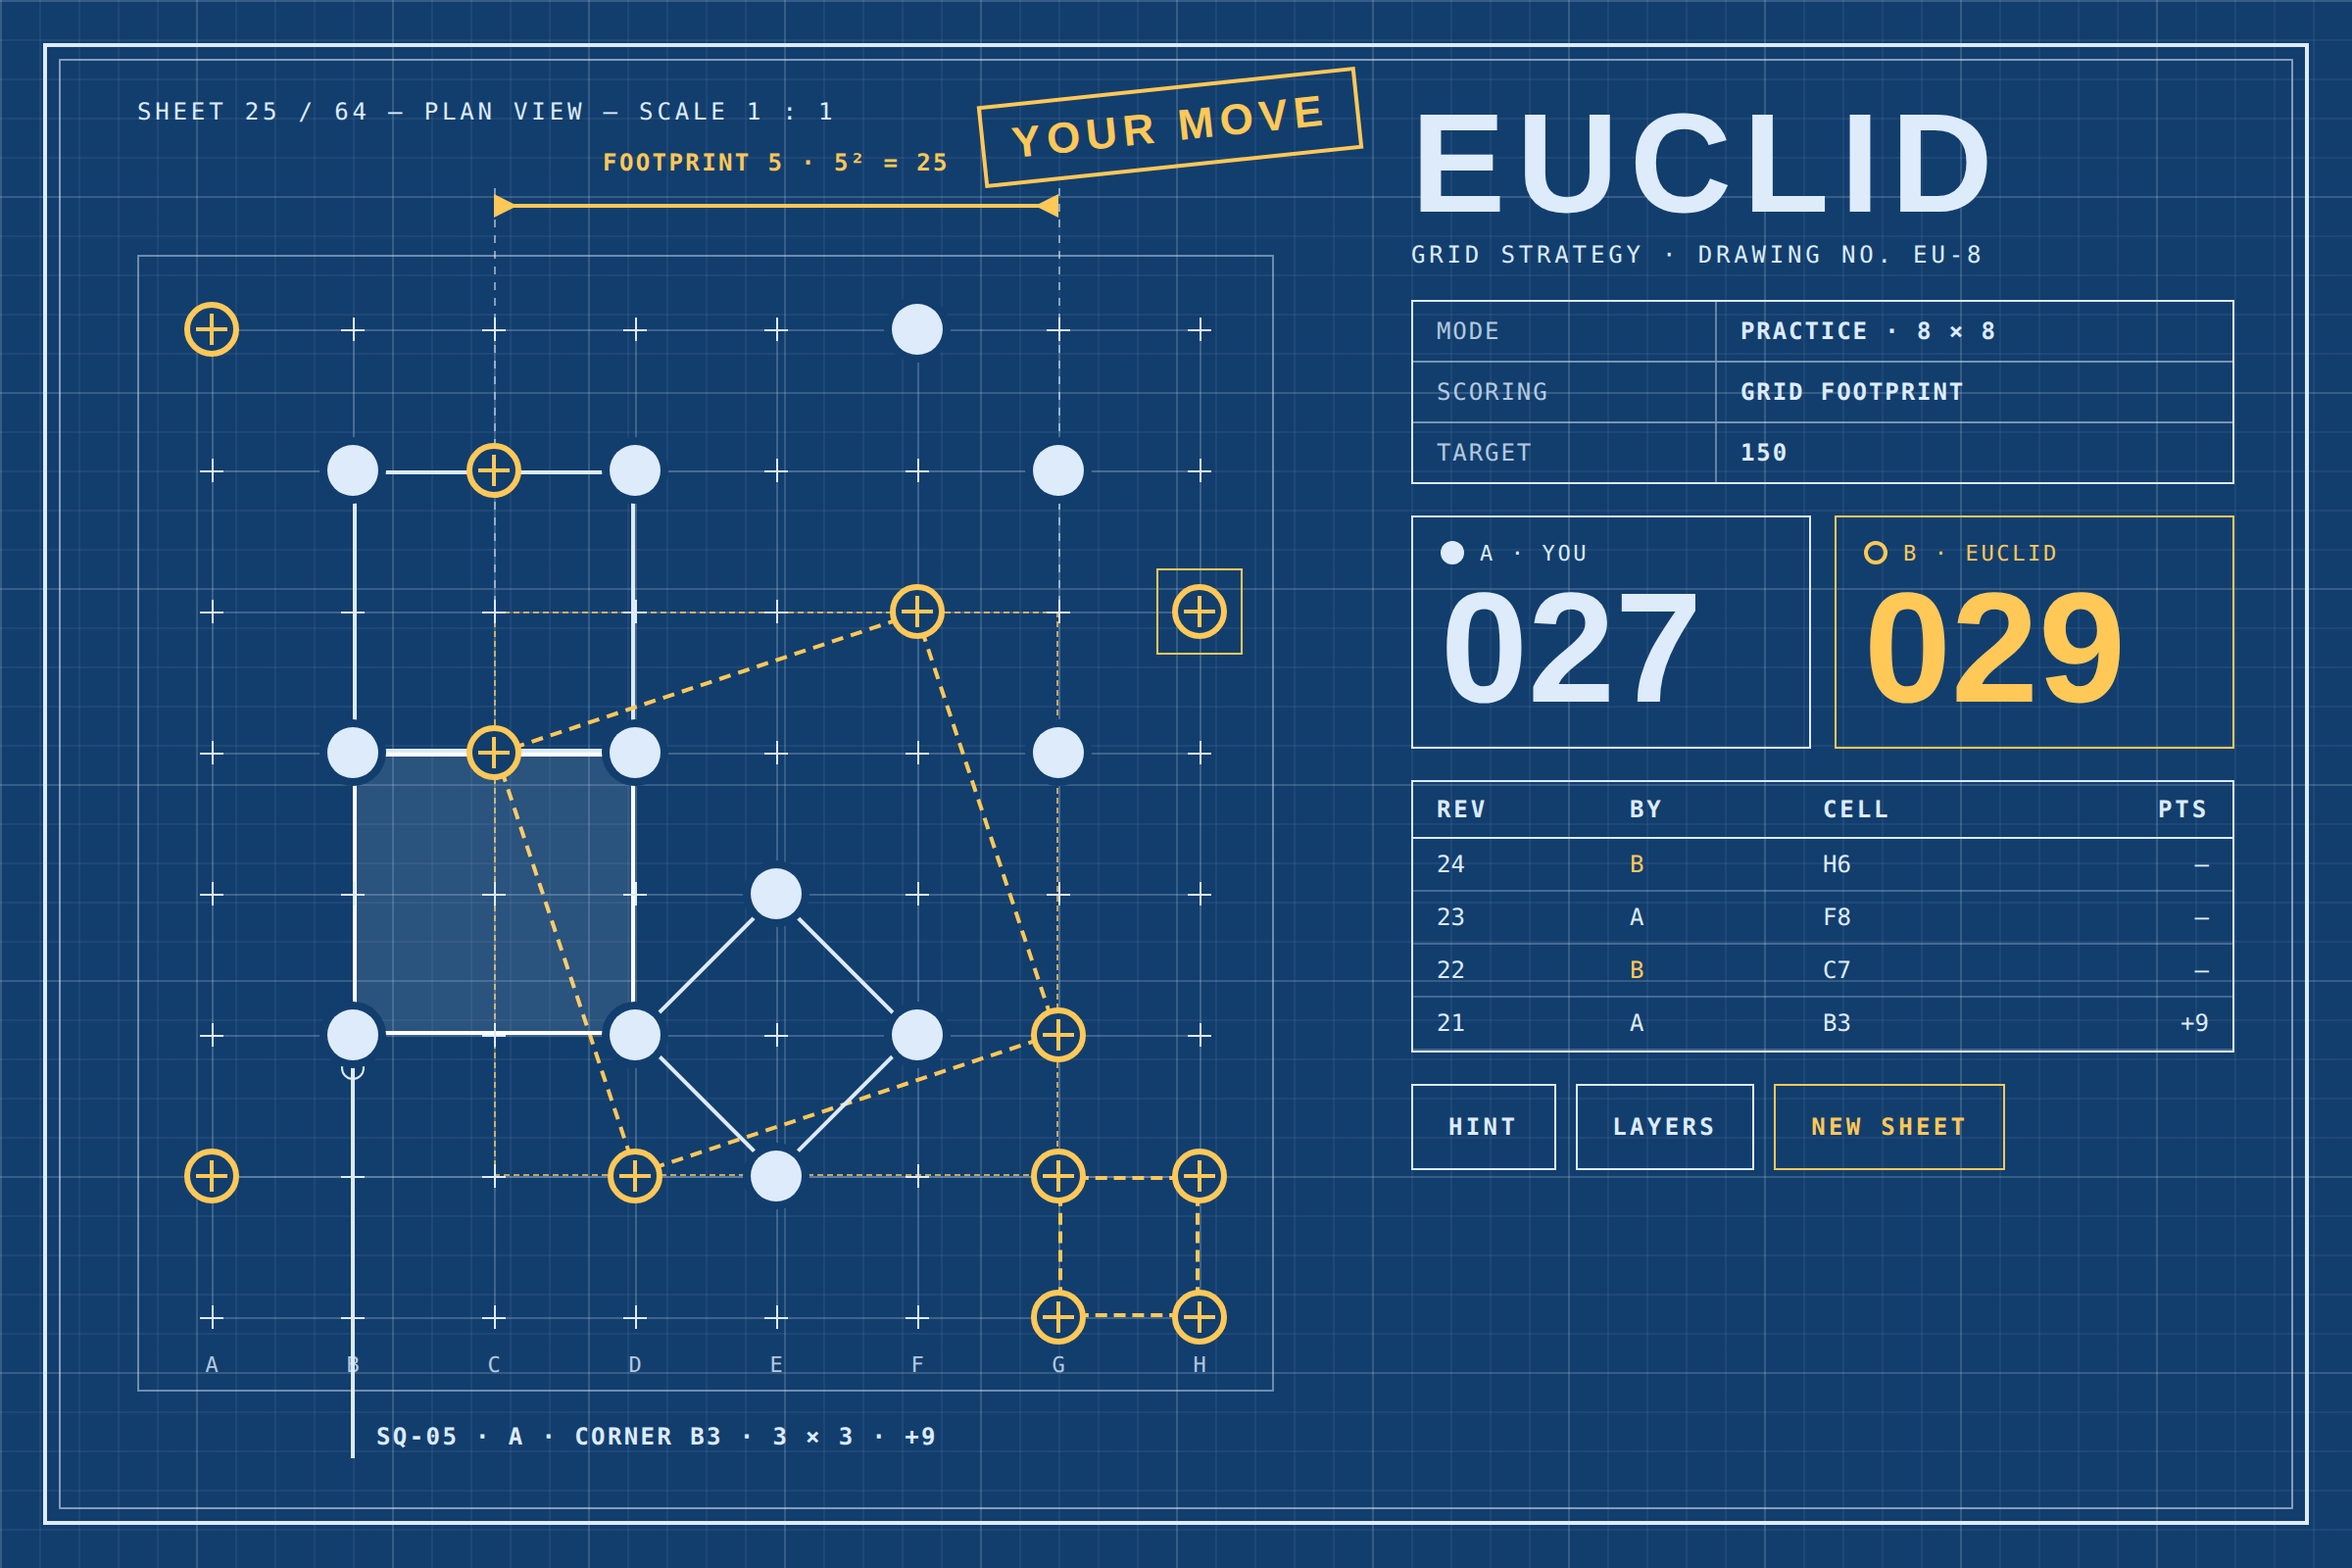
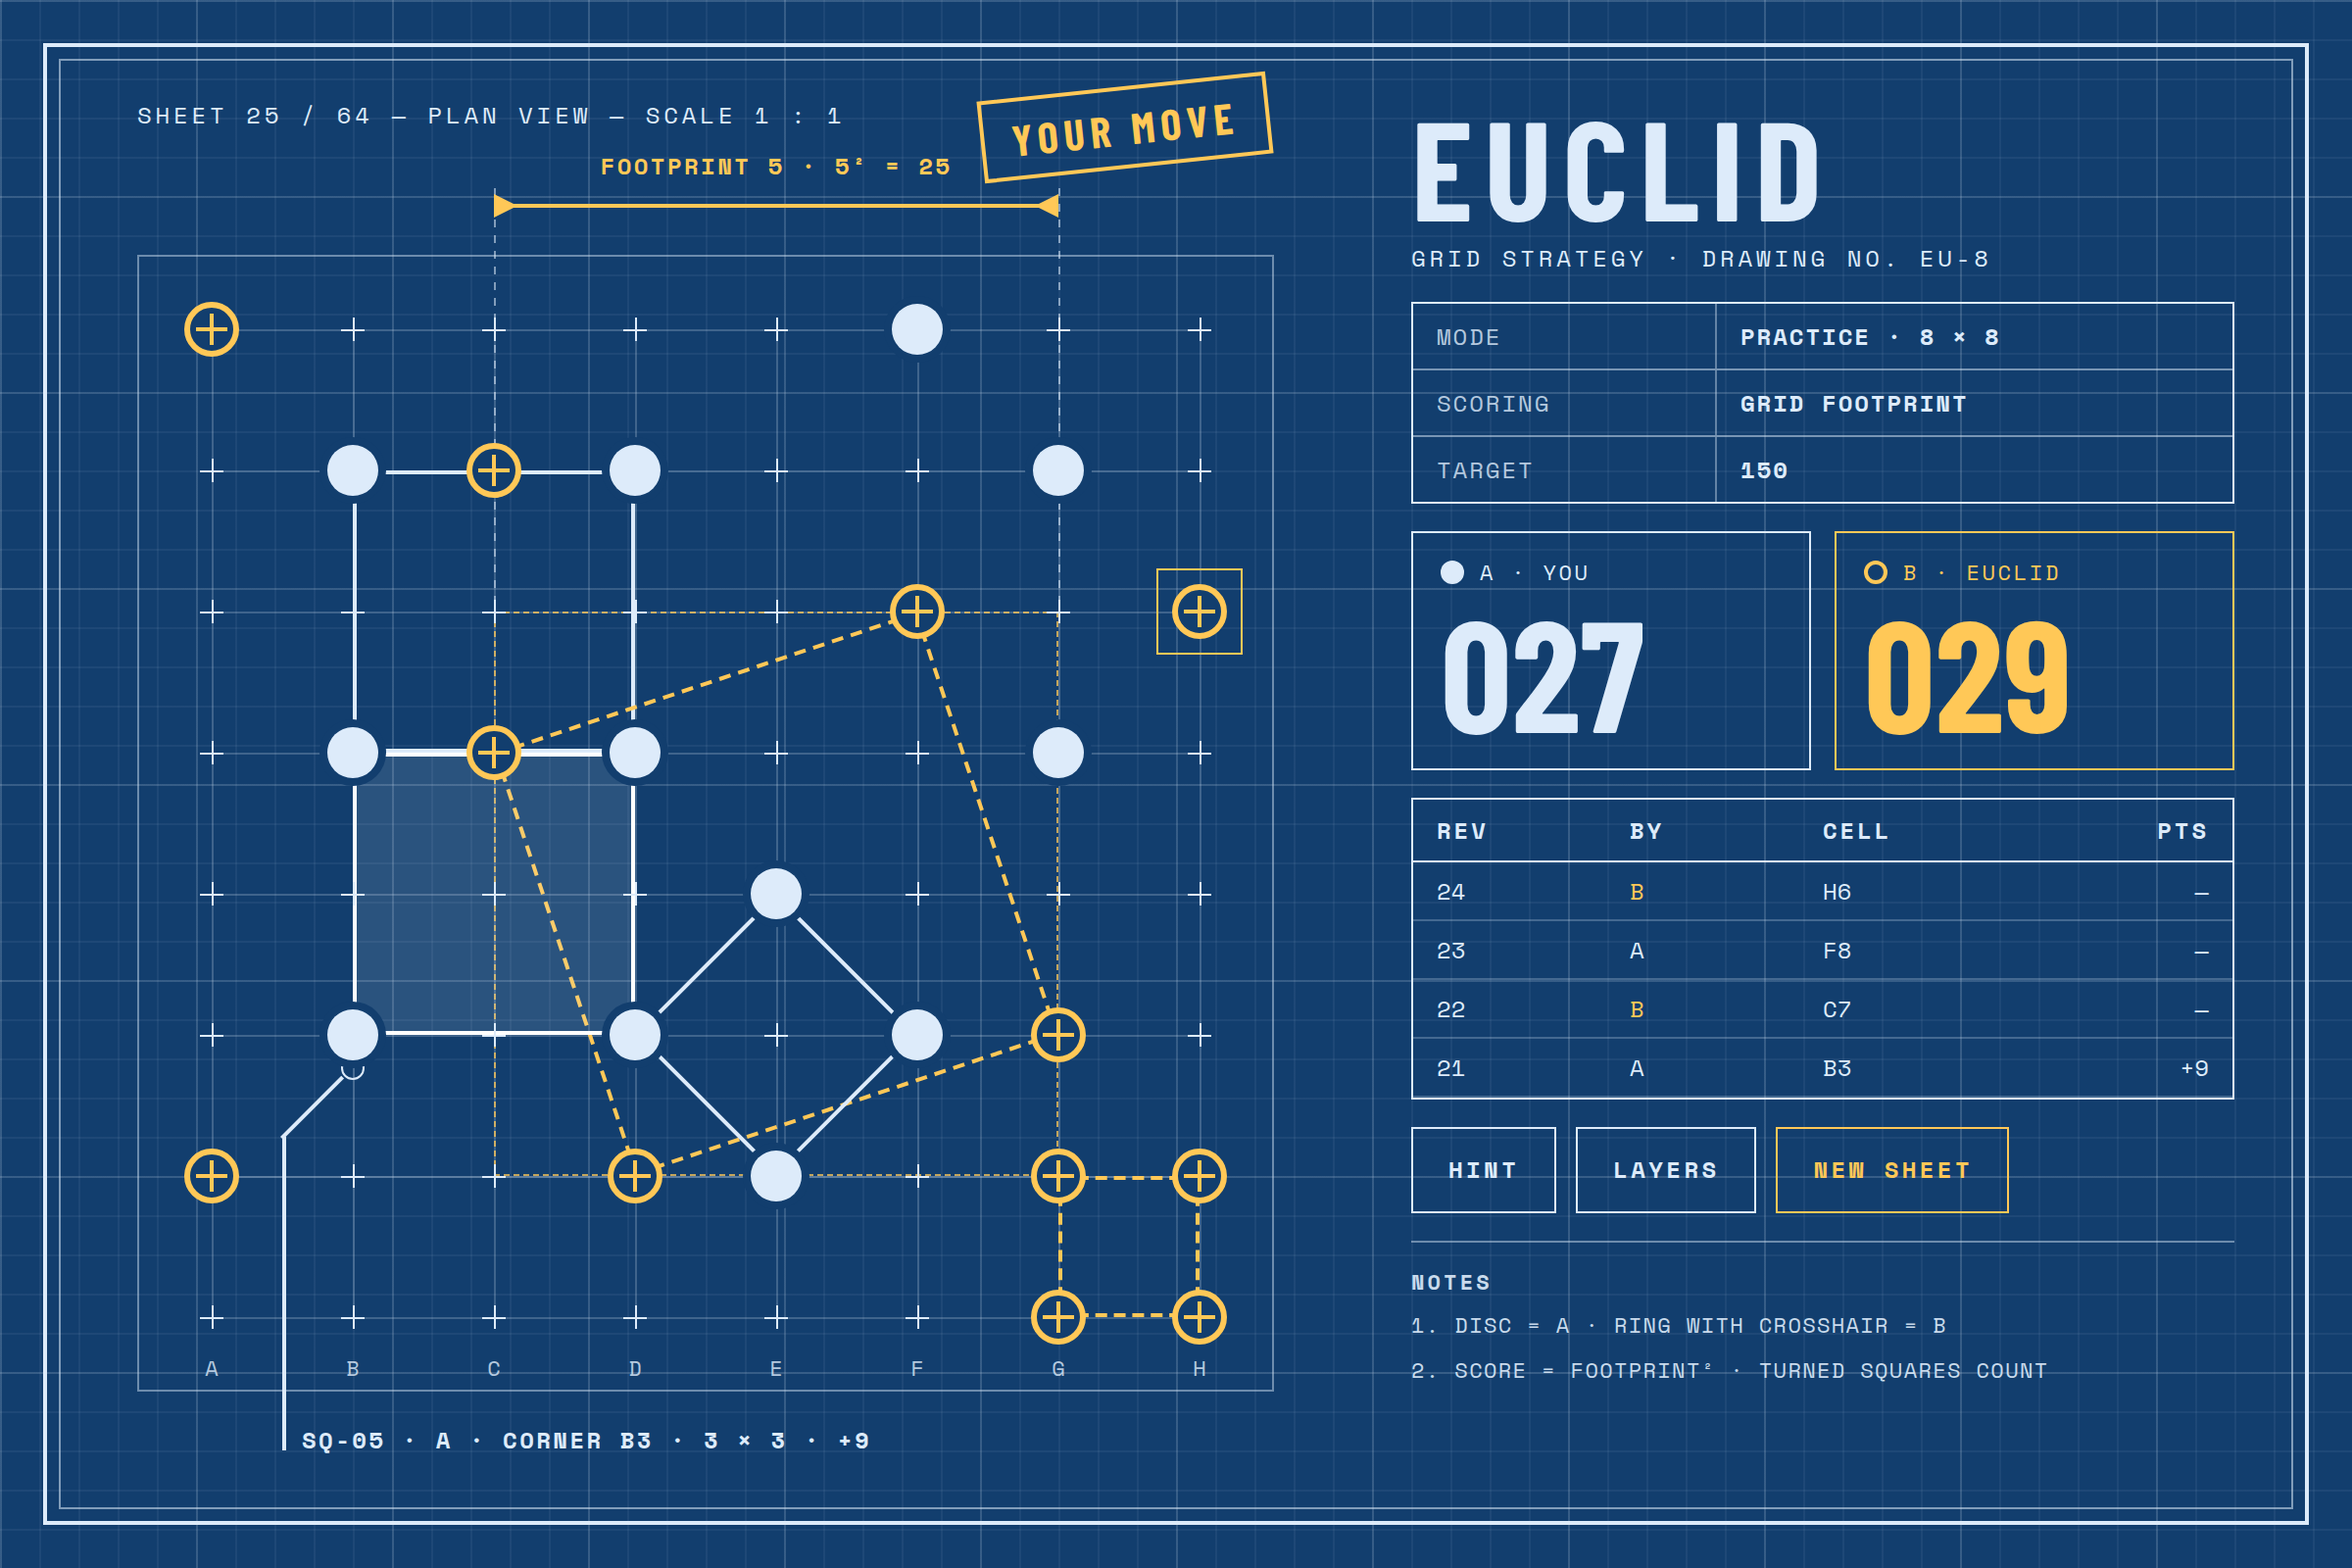
Refine the Blueprint mockup
Route the callout leader between columns A and B instead of through the
B label, and fill the empty corner of the title block with drawing notes.

diff --git a/designs/source/04-blueprint.dc.html b/designs/source/04-blueprint.dc.html
@@ -48,9 +48,10 @@ a{color:#FFC857}a:hover{color:#FFE0A0}
     </sc-for>
 
     <!-- callout for the newest square -->
-    <div style="position: absolute; left: 109px; top: 414px; width: 1.5px; height: 200px; background: #DDEBFA"></div>
+    <div style="position: absolute; left: 105px; top: 419px; width: 44px; height: 1.5px; background: #DDEBFA; transform-origin: 0 50%; transform: rotate(135deg)"></div>
+    <div style="position: absolute; left: 74px; top: 450px; width: 1.5px; height: 160px; background: #DDEBFA"></div>
     <div style="position: absolute; left: 104px; top: 409px; width: 12px; height: 12px; border-radius: 50%; border: 1.5px solid #DDEBFA; box-sizing: border-box"></div>
-    <div style="position: absolute; left: 122px; top: 596px; font-size: 12px; font-weight: 700; letter-spacing: .1em; white-space: nowrap">SQ-05 · A · CORNER B3 · 3 × 3 · +9</div>
+    <div style="position: absolute; left: 84px; top: 596px; font-size: 12px; font-weight: 700; letter-spacing: .1em; white-space: nowrap">SQ-05 · A · CORNER B3 · 3 × 3 · +9</div>
 
     <sc-for list="{{cells}}" as="c" hint-placeholder-count="64">
       <sc-if value="{{c.empty}}" hint-placeholder-val="{{ true }}">
@@ -78,7 +79,7 @@ a{color:#FFC857}a:hover{color:#FFE0A0}
   </div>
 
   <!-- title block -->
-  <div style="position: absolute; left: 720px; top: 52px; width: 420px; display: flex; flex-direction: column; gap: 16px">
+  <div style="position: absolute; left: 720px; top: 52px; width: 420px; display: flex; flex-direction: column; gap: 14px">
     <div>
       <div style="font-family: 'Barlow Condensed', sans-serif; font-weight: 700; font-size: 72px; line-height: .9; letter-spacing: .08em">EUCLID</div>
       <div style="font-size: 12px; letter-spacing: .16em; margin-top: 6px">GRID STRATEGY · DRAWING NO. EU-8</div>
@@ -108,6 +109,11 @@ a{color:#FFC857}a:hover{color:#FFE0A0}
       <button class="bpb">HINT</button>
       <button class="bpb">LAYERS</button>
       <button class="bpb" style="border-color: #FFC857; color: #FFC857">NEW SHEET</button>
+    </div>
+    <div style="display: flex; flex-direction: column; gap: 6px; border-top: 1px solid rgba(221,235,250,.5); padding-top: 12px; font-size: 11px; line-height: 1.5; letter-spacing: .06em; opacity: .9">
+      <div style="font-weight: 700; letter-spacing: .14em">NOTES</div>
+      <div>1. DISC = A · RING WITH CROSSHAIR = B</div>
+      <div>2. SCORE = FOOTPRINT² · TURNED SQUARES COUNT</div>
     </div>
   </div>
 </div>
